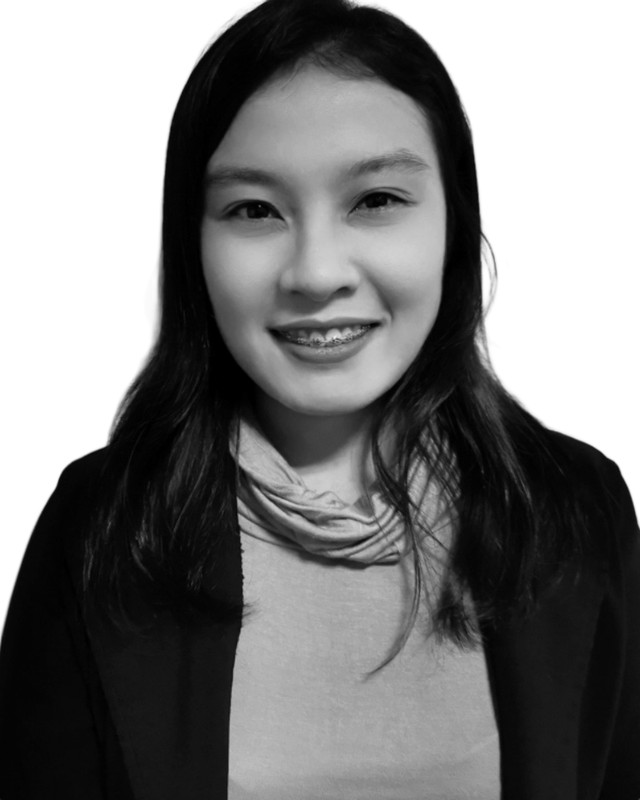
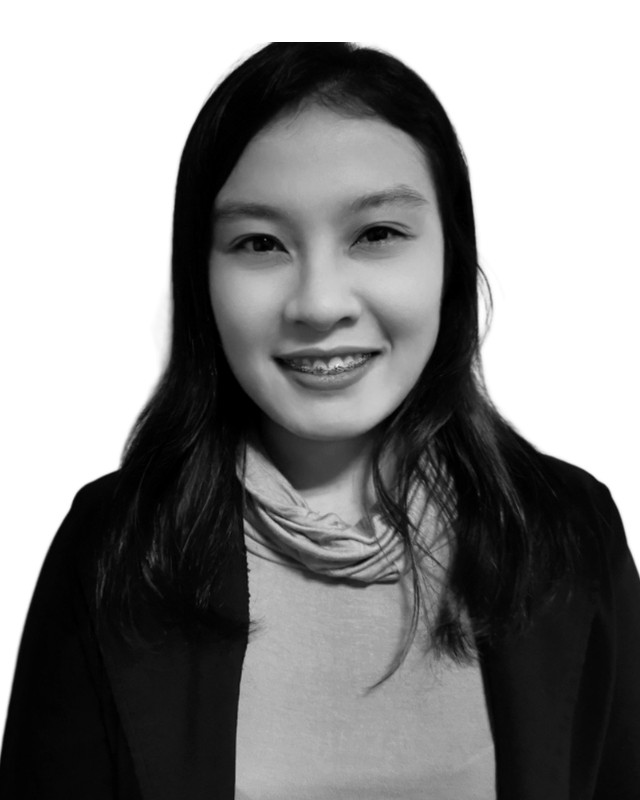
Consistent team portraits, assistant home and sign up screens
Claude-Session: https://claude.ai/code/session_01NhKcfN3musYYTybYyu186h

Changed region(s): [[0.0, 0.0, 1.0, 1.0], [0.1875, 0.625, 0.25, 0.7188], [0.125, 0.6875, 0.1562, 0.7188]]

diff --git a/assistants/index.html b/assistants/index.html
@@ -200,7 +200,7 @@ div[style*="grid-template-columns: 320px 560px 320px"] > div:empty{display:none}
 </div>
 </div>
 <div class="phone" style="position: absolute; left: 1040px; top: 150px; width: 300px; height: 640px;">
-<div class="screen"><img src="/assets/app-surgeon.png" alt="The MySurgAssist app, a list with an assistant assigned"></div>
+<div class="screen"><img src="/assets/app-home.png" alt="The MySurgAssist app, the assistant home screen"></div>
 </div>
 </section>
 
@@ -369,7 +369,7 @@ div[style*="grid-template-columns: 320px 560px 320px"] > div:empty{display:none}
 </div>
 <div style="display: flex; justify-content: flex-end;">
 <div class="phone" style="width: 220px; height: 240px; border-bottom: 0; border-radius: 30px 30px 0 0; padding-bottom: 0; margin-bottom: -96px;">
-<div class="screen" style="border-radius: 20px 20px 0 0;"><img src="/assets/app-signin.png" alt="The MySurgAssist app, sign in"></div>
+<div class="screen" style="border-radius: 20px 20px 0 0;"><img src="/assets/app-signup.png" alt="The MySurgAssist app, sign up"></div>
 </div>
 </div>
 </section>
